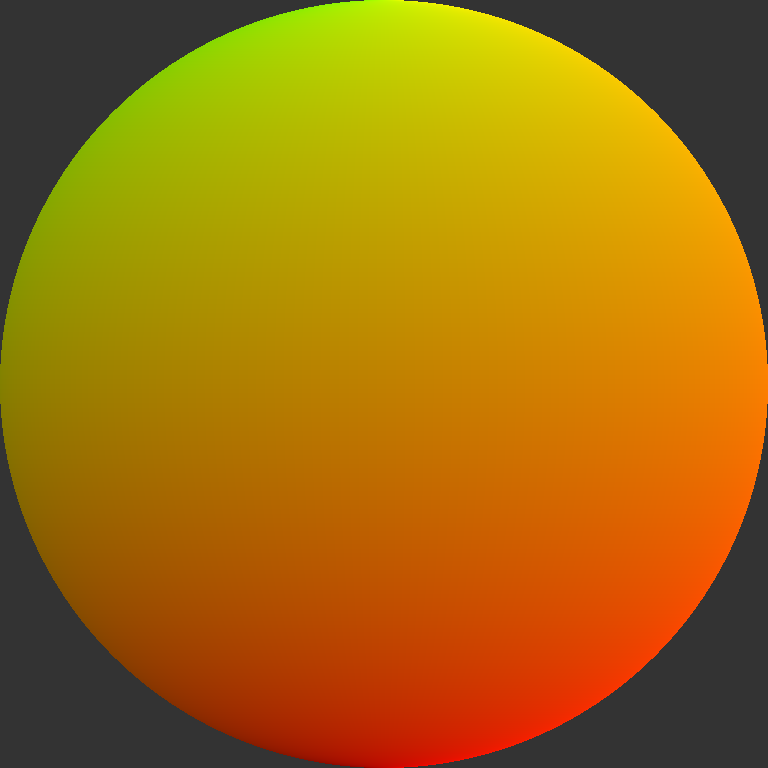
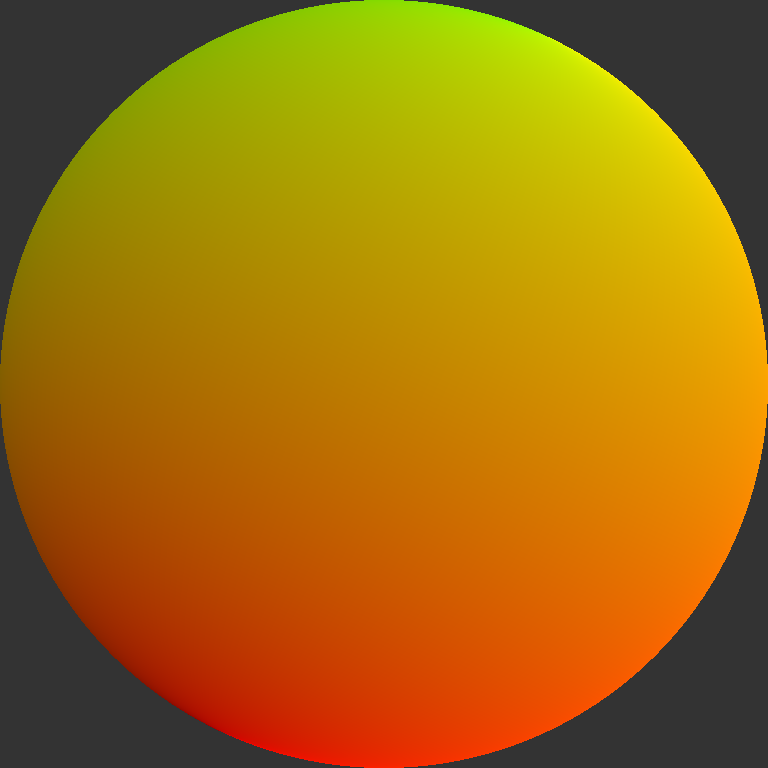
fix clouds

Changed region(s): [[0.0, 0.0, 1.0, 1.0]]

diff --git a/app.py b/app.py
@@ -13,7 +13,7 @@ from planets import BODIES
 
 import importlib
 
-UNCAPPED = False
+UNCAPPED = True
 
 
 class App:
@@ -30,7 +30,7 @@ class App:
         self.pg_surf = self.init_screen()
         self.font = pygame.font.Font("renogare/Renogare-Regular.otf", 20)
 
-        self.max_fps = 60 if not UNCAPPED else 0
+        self.max_fps = 60 if not UNCAPPED else 1000
         self.camera = Camera(0, 0)
         
         self.planet_textures = {}
@@ -44,16 +44,16 @@ class App:
         self.planetPos = (0.5 * self.screen_size[0], 0.5 * self.screen_size[1])
         self.shouldMoveLight = True
         self.lightDirection = [0.3, 0.6, -1.0]
-        self.speed = 500
-        self.time_speed = 1.0
-        self.planetRotationSpeed = 0.05
+        self.movement_speed = 500
+        self.isStar = False
+        
 
         self.clock = pygame.time.Clock()
         self.dt = 0
         self.time_elapsed = 0
         self.screenshot = pygame.image.load("screenshot.png").convert()
 
-        self.shaders = {"vert": "default.vert", "frag": "planet3.frag"}
+        self.shaders = {"vert": "default.vert", "frag": "planet4.frag"}
         self.since_shader_check = 0
 
         if self.using_gpu:
@@ -118,13 +118,13 @@ class App:
     def move(self):
         keys = pygame.key.get_pressed()
         if keys[pygame.K_w]:
-            self.camera.y -= self.speed * self.dt
+            self.camera.y -= self.movement_speed * self.dt
         if keys[pygame.K_a]:
-            self.camera.x -= self.speed * self.dt
+            self.camera.x -= self.movement_speed * self.dt
         if keys[pygame.K_s]:
-            self.camera.y += self.speed * self.dt
+            self.camera.y += self.movement_speed * self.dt
         if keys[pygame.K_d]:
-            self.camera.x += self.speed * self.dt
+            self.camera.x += self.movement_speed * self.dt
 
     def init_screen(self):
         if self.using_gpu:
@@ -199,6 +199,7 @@ class App:
         self.cloudRadius = body["cloudRadius"]
         self.planetPos = body["bodyPos"] - cam_pos
         self.lightDirection = body["lightDirection"]
+        self.isStar = body.get("isStar", False)
         self.has_changed_planet = True if self.latest_planet != body_name else False
         self.latest_planet = body_name
         self.planet_id = list(BODIES.keys()).index(body_name)

diff --git a/uniforms.py b/uniforms.py
@@ -21,6 +21,11 @@ for v in _palette:
     palette.append(color)
 print(palette)
 
+def set_speeds(self):
+    self.time_speed = 1.0
+    self.planetRotationSpeed = 0.01
+    self.lightSpeed = 0.5
+
 
 def get_palette_buf():
     buffer = bytearray()
@@ -30,9 +35,8 @@ def get_palette_buf():
 
 
 def get_light_moved(self):
-    lightSpeed = 4.0
     startLightRot = 0.0
-    rot = startLightRot + (self.time_elapsed * lightSpeed)  # between 0 and 2pi
+    rot = startLightRot + (self.time_elapsed * self.lightSpeed)  # between 0 and 2pi
     rot %= 2.0 * math.pi
     offset = (math.sin(rot) * 2.0, math.cos(rot) * 2.0)
 
@@ -50,6 +54,7 @@ def get_planet_offset(self):
 
 
 def get_uniforms(self):
+    set_speeds(self)
     uniforms_map = {
         "time": {
             "value": lambda: struct.pack("f", self.time_elapsed),
@@ -106,5 +111,9 @@ def get_uniforms(self):
             "value": lambda: struct.pack("f", get_planet_offset(self)),
             "glsl_type": "float",
         },
+        "isStar": {
+            "value": lambda: struct.pack("?", self.isStar),
+            "glsl_type":"bool"
+        }
     }
     return uniforms_map

diff --git a/test.py b/test.py
@@ -1,0 +1,20 @@
+import threading
+import time
+
+
+results = {}
+
+def get_list(results:dict[any,any]):
+    time.sleep(2)
+    results["test"] = ["a","b","c"]
+
+t = threading.Thread(target=get_list, args=(results,))
+t.start()
+# in your game loop
+while True:
+    if not t.is_alive():
+        result = results["test"]
+        print(result)
+        break
+        
+

diff --git a/shader_pipeline.py b/shader_pipeline.py
@@ -125,6 +125,9 @@ class ShaderPipeline:
             elif data_type == "int":
                 size = 4  # why dont you work...
                 align = 4
+            elif data_type == 'bool':
+                size = 1
+                align = 4
             elif data_type == "vec2":
                 size = 8  # 2 floats
                 align = 8

diff --git a/planets.py b/planets.py
@@ -6,7 +6,8 @@ BODIES = {
         "bodyRadius": 1000,
         "cloudRadius": 1050,
         "bodyPos": Vector2(16410, 5917),
-        "lightDirection": [0.0, 0.0, 0.0],
+        "lightDirection": [0.3, 0.6, -1.0],
+        "isStar":True
     },
     "Albasee": {
         "bodyRadius": 500,  # pixels
